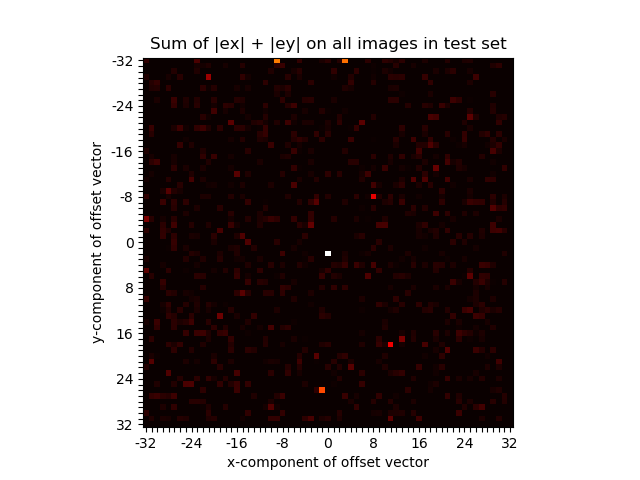
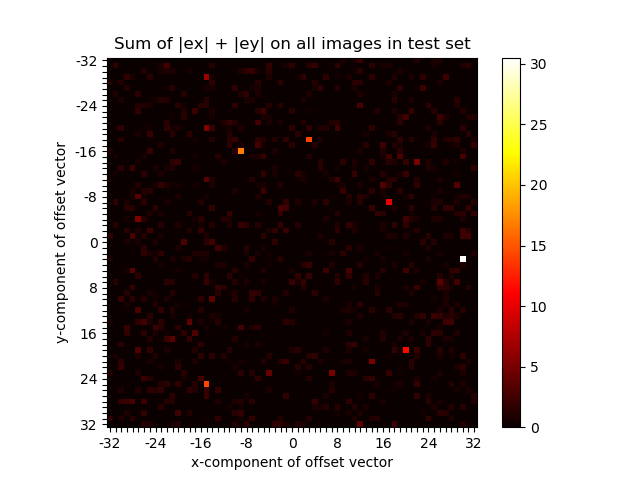
added colormap to error map, fixed bug in creating error map

diff --git a/max_offset_32/2frame_tracking_classifier.py b/max_offset_32/2frame_tracking_classifier.py
@@ -294,6 +294,7 @@ errcount = 0
 total = n_test * 2
 heatmap = []
 errmap = np.zeros([65, 65])
+count = np.zeros([65, 65])
 
 # empty error directory to fill with new errors
 for filename in os.listdir(reportdir + 'errors/'):
@@ -308,6 +309,7 @@ with torch.no_grad():
         outputs = network(images)
         preds = outputs.argmax(dim=2)
         labels += 32
+        labelsint = labels.round().int()
         x_diff = preds[:,0] - labels[:,0]
         y_diff = preds[:,1] - labels[:,1]
         for i in range(batch_size_test):
@@ -315,7 +317,8 @@ with torch.no_grad():
             error_x = abs(x_diff[i].item())
             error_y = abs(y_diff[i].item())
             error = error_x + error_y
-            errmap[preds[i][1]][preds[i][0]] += error
+            errmap[labelsint[i][1]][labelsint[i][0]] += error
+            count[labelsint[i][1]][labelsint[i][0]] += 1
 
             if error_x < 1:
                 correct += 1
@@ -397,9 +400,16 @@ for i in range(-32, 33):
 
 plt.xticks(range(65), ticks)
 plt.yticks(range(65), ticks)
+plt.colorbar()
 plt.savefig(os.path.join(reportdir, 'errmap_classifier.png'))
 
 
+'''
+# debug code
+for i in range(65):
+    for j in range(65):
+        print(i - 33, j - 33, errmap[i][j], count[i][j])
+'''
 
 
 

diff --git a/max_offset_32/2frame_tracking_regression.py b/max_offset_32/2frame_tracking_regression.py
@@ -287,6 +287,7 @@ errcount = 0
 total = n_test * 2
 heatmap = []
 errmap = np.zeros([65, 65])
+count = np.zeros([65, 65])
 
 # empty error directory to fill with new errors
 for filename in os.listdir(reportdir + 'errors/'):
@@ -300,7 +301,7 @@ with torch.no_grad():
             labels = labels.cuda()
         outputs = network(images)
         preds = outputs
-        predsint = preds.int()
+        labelsint = labels.round().int()
         x_diff = preds[:,0] - labels[:,0]
         y_diff = preds[:,1] - labels[:,1]
         for i in range(batch_size_test):
@@ -308,7 +309,8 @@ with torch.no_grad():
             error_x = abs(x_diff[i].item())
             error_y = abs(y_diff[i].item())
             error = error_x + error_y
-            errmap[predsint[i][1]][predsint[i][0]] += error
+            errmap[labelsint[i][1]][labelsint[i][0]] += error
+            count[labelsint[i][1]][labelsint[i][0]] += 1
 
             if error_x < 1:
                 correct += 1
@@ -389,6 +391,7 @@ for i in range(-32, 33):
 
 plt.xticks(range(65), ticks)
 plt.yticks(range(65), ticks)
+plt.colorbar()
 plt.savefig(os.path.join(reportdir, 'errmap_regression.png'))
 
 
